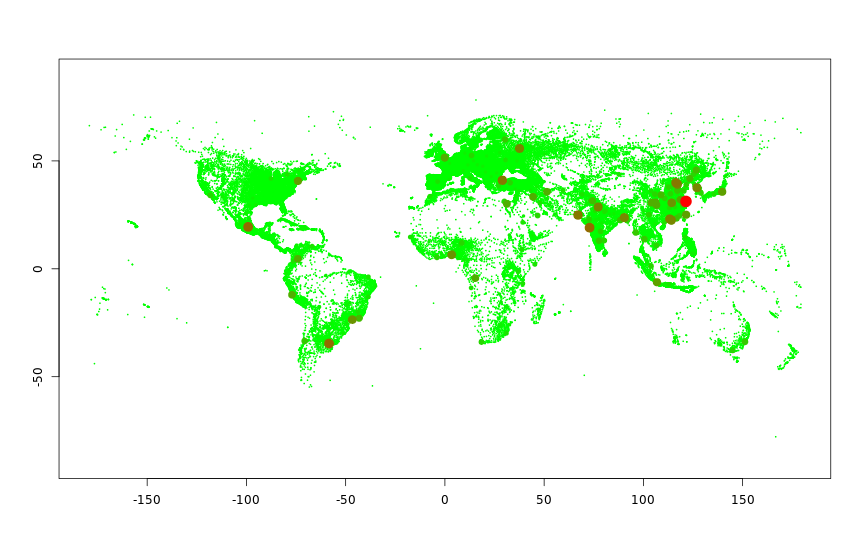
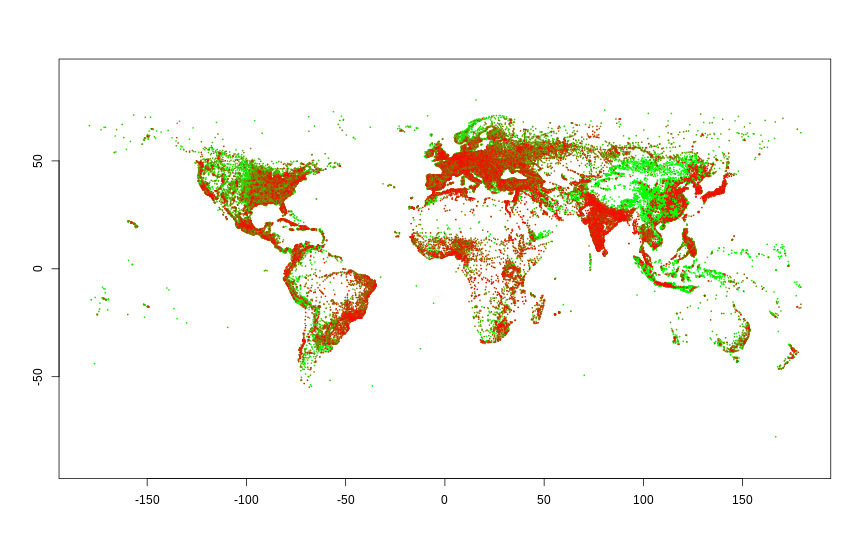
Switched to log scale for population

diff --git a/README.md b/README.md
@@ -1,6 +1,12 @@
 # R-cities
+
 Analysis of world cities data in R
 
-## "World map"
-This image was generated by plotting all cities in the database.
-![Alt text](/images/world_cities.png?raw=true "World cities")
+## Density "World map"
+
+This image was generated by plotting all the cities in the database using their latitude and longitude on an empty canvas. The color is defined by a logarithmic scale over population quantiles.
+![world_cities.png](/images/world_cities.png?raw=true "City density world map")
+
+## Data sources
+
+* http://download.geonames.org/export/dump/
